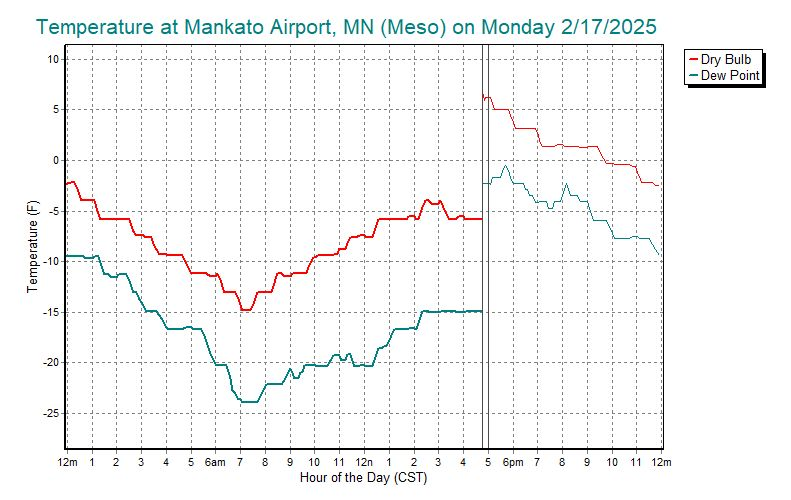
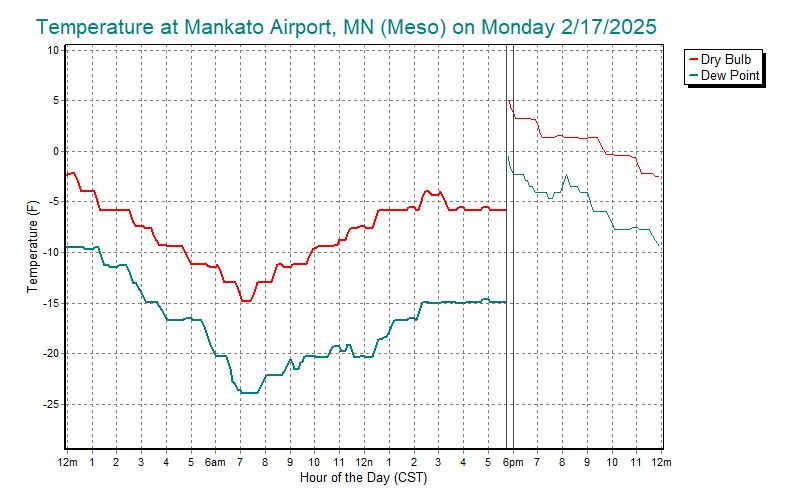
another update

diff --git a/charts.html b/charts.html
@@ -88,7 +88,7 @@
 	<p><b><font face="Arial" size="5">Samples from Rosy.asp</font></b></p>
    </div>
    <p><span>
-(24-hour charts updated Monday, February 17, 2025 at 05:00PM Central).
+(24-hour charts updated Monday, February 17, 2025 at 06:00PM Central).
    </span></p>
    <p>The orginal ASP page is named Rosy, a nickname windsurfers from the Tri-Cities gave Roosevelt, a sailing site on the east end of the Columbia River gorge.</p>
 	<p>This first pair of sample charts, wind and temperature, is updated every 

diff --git a/charts_input.html b/charts_input.html
@@ -88,7 +88,7 @@
 	<p><b><font face="Arial" size="5">Samples from Rosy.asp</font></b></p>
    </div>
    <p><span>
-(24-hour charts updated Monday, February 17, 2025 at 05:00PM Central).
+(24-hour charts updated Monday, February 17, 2025 at 06:00PM Central).
    </span></p>
    <p>The orginal ASP page is named Rosy, a nickname windsurfers from the Tri-Cities gave Roosevelt, a sailing site on the east end of the Columbia River gorge.</p>
 	<p>This first pair of sample charts, wind and temperature, is updated every 
